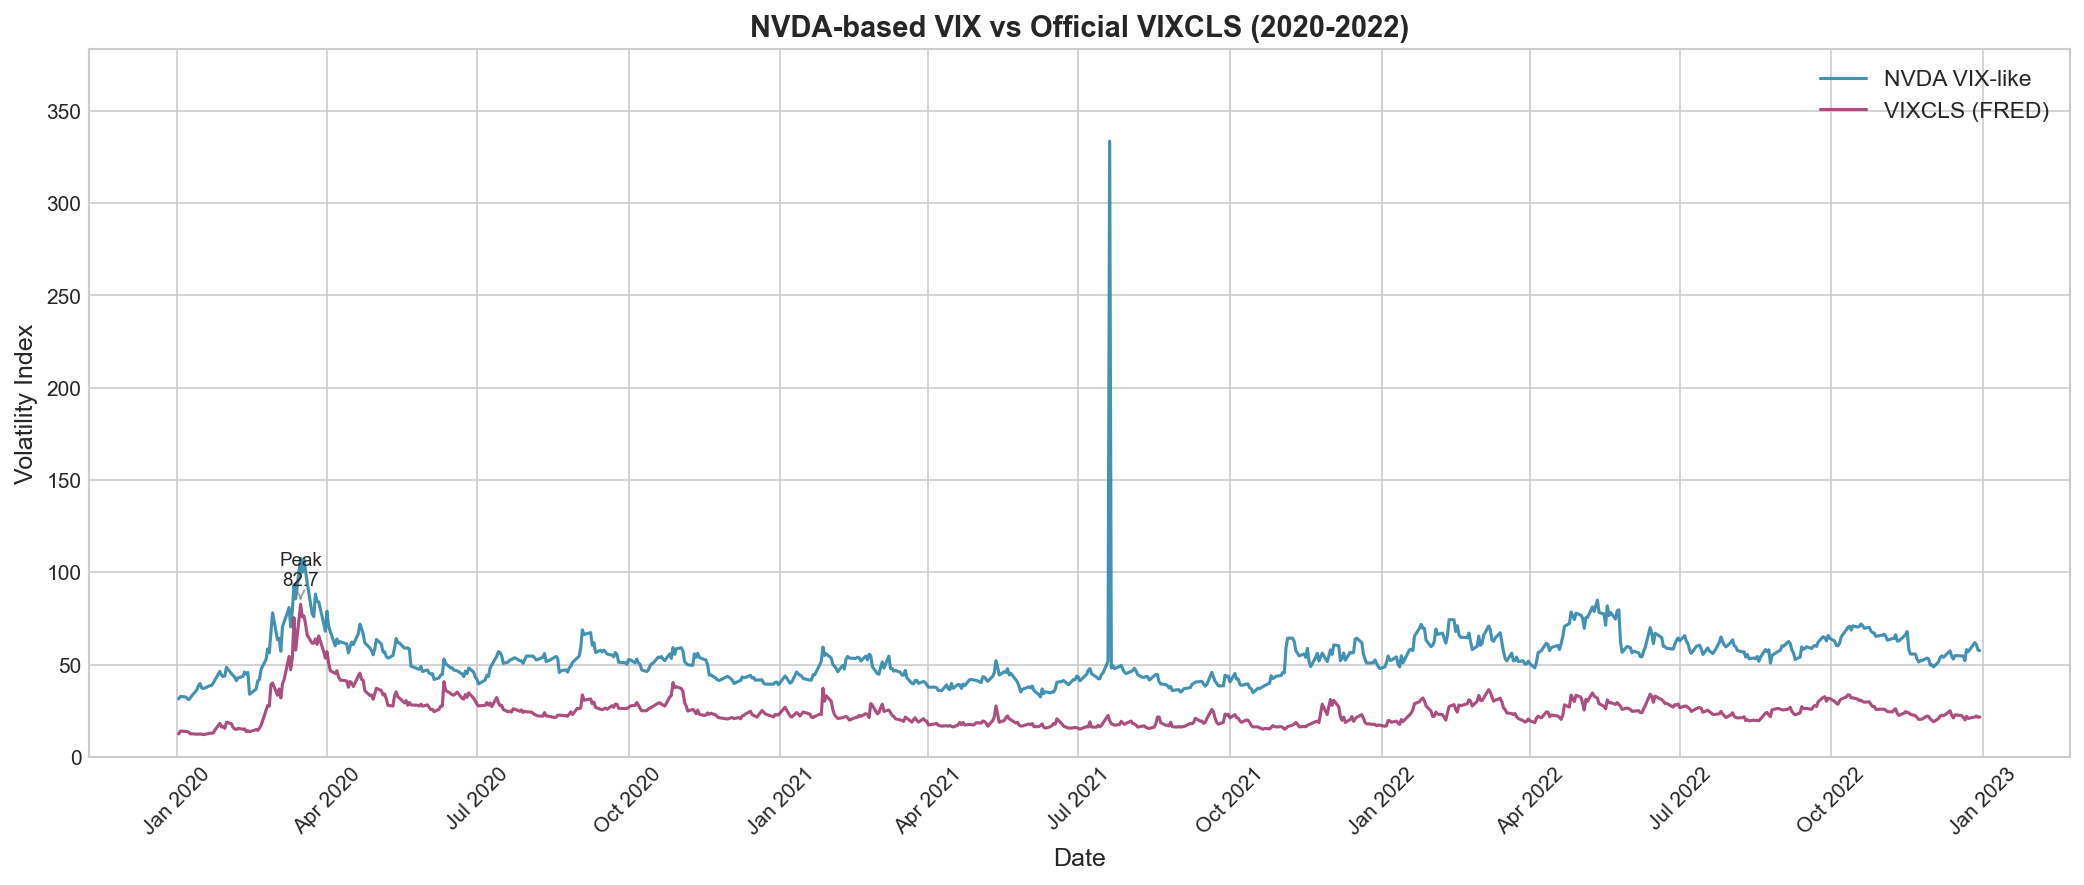
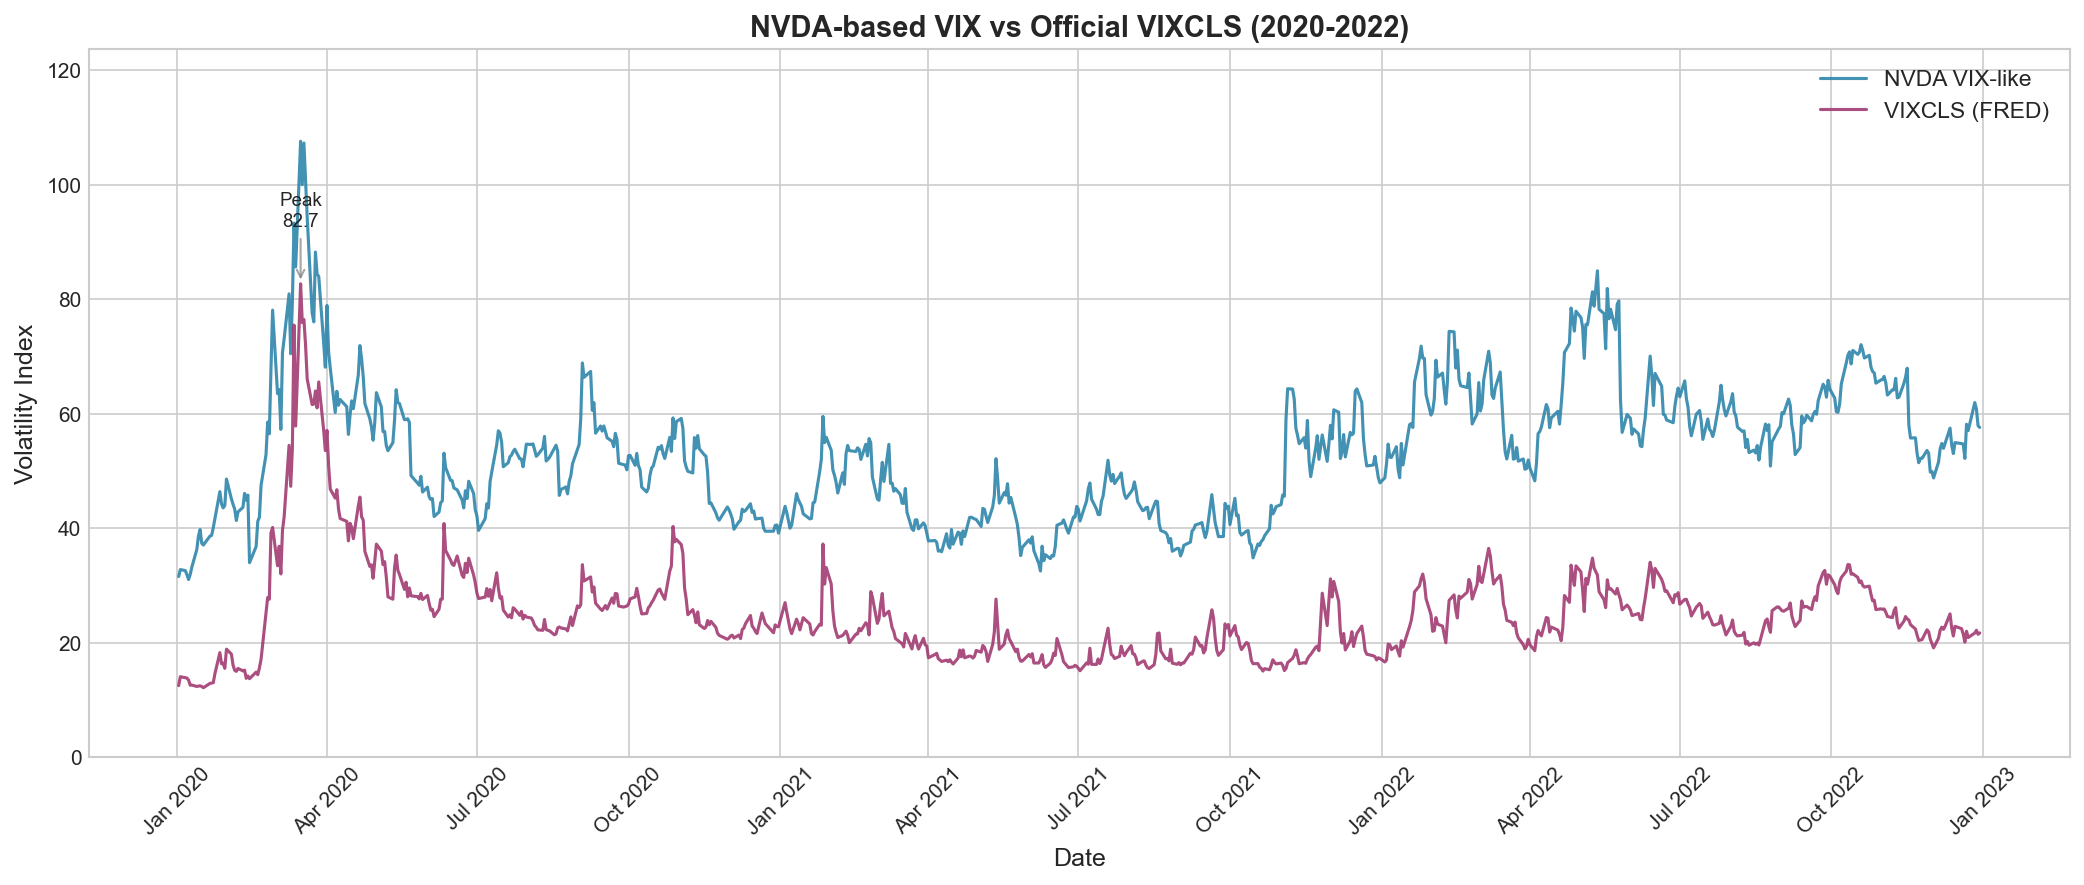
debug stock splits

diff --git a/src/vix_challenger/vix/strip.py b/src/vix_challenger/vix/strip.py
@@ -68,6 +68,13 @@ def build_otm_strip(
     # Sort by strike
     df = expiry_df.sort(Cols.STRIKE)
 
+    # Spot/underlying price (used for sanity filtering)
+    spot: Optional[float] = None
+    if Cols.UNDERLYING_PRICE in df.columns:
+        spot_series = df[Cols.UNDERLYING_PRICE].drop_nulls().drop_nans()
+        if len(spot_series) > 0:
+            spot = float(spot_series.head(1).item())
+
     # -------------------------------------------------------------------------
     # Strike sanity guard (single-stock chains can contain extreme deep-tail
     # strikes with spurious/non-sense quotes that dominate the 1/K^2 weighting).
@@ -79,22 +86,41 @@ def build_otm_strip(
     # For index-like underlyings (e.g. SPY), this filter usually has no effect
     # because strike ranges are already reasonable.
     # -------------------------------------------------------------------------
-    if Cols.UNDERLYING_PRICE in df.columns:
-        spot_series = df[Cols.UNDERLYING_PRICE].drop_nulls().drop_nans()
-        if len(spot_series) > 0:
-            spot = float(spot_series.head(1).item())
-            if spot > 0:
-                min_moneyness = 0.20
-                max_moneyness = 5.00
-                strike_min_guard = spot * min_moneyness
-                strike_max_guard = spot * max_moneyness
+    if spot is not None and spot > 0:
+        min_moneyness = 0.20
+        max_moneyness = 5.00
+        strike_min_guard = spot * min_moneyness
+        strike_max_guard = spot * max_moneyness
 
-                # Apply only if the chain includes extreme strikes (otherwise no-op)
-                if (df[Cols.STRIKE].min() < strike_min_guard) or (df[Cols.STRIKE].max() > strike_max_guard):
-                    df = df.filter(
-                        (pl.col(Cols.STRIKE) >= strike_min_guard)
-                        & (pl.col(Cols.STRIKE) <= strike_max_guard)
-                    )
+        # Apply only if the chain includes extreme strikes (otherwise no-op)
+        if (df[Cols.STRIKE].min() < strike_min_guard) or (df[Cols.STRIKE].max() > strike_max_guard):
+            df = df.filter(
+                (pl.col(Cols.STRIKE) >= strike_min_guard)
+                & (pl.col(Cols.STRIKE) <= strike_max_guard)
+            )
+
+        # Put-call parity sanity across strikes:
+        # For rows with both C and P mids, implied forward should be close to spot.
+        # This catches split/nonstandard-contract issues where strikes/quotes are
+        # on a different scale than the reported underlying price.
+        has_pair = (
+            pl.col(Cols.C_MID).is_not_null()
+            & pl.col(Cols.P_MID).is_not_null()
+            & pl.col(Cols.C_MID).is_not_nan()
+            & pl.col(Cols.P_MID).is_not_nan()
+            & (pl.col(Cols.C_MID) > 0)
+            & (pl.col(Cols.P_MID) > 0)
+        )
+        implied_forward = pl.col(Cols.STRIKE) + (pl.col(Cols.C_MID) - pl.col(Cols.P_MID))
+        df = df.filter(
+            (~has_pair)
+            | (
+                implied_forward.is_between(
+                    pl.lit(spot * 0.5),
+                    pl.lit(spot * 1.5),
+                )
+            )
+        )
     
     # Build OTM quote column:
     # - K < K0: use P_MID
@@ -117,6 +143,24 @@ def build_otm_strip(
         .alias("otm_bid"),
     )
     
+    # No-arbitrage bounds sanity filter for OTM quotes:
+    # - OTM call (K > K0): 0 <= C <= S
+    # - OTM put  (K < K0): 0 <= P <= K
+    #
+    # This catches corporate-action / split-related data issues where the strike
+    # scale and quoted premiums are inconsistent with the underlying price
+    # (e.g., OTM calls priced above spot).
+    if spot is not None and spot > 0:
+        eps = 1e-3  # allow tiny numerical/rounding noise
+        df = df.with_columns(
+            pl.when(pl.col(Cols.STRIKE) < k0)
+            .then(pl.col(Cols.STRIKE) * (1.0 + eps))      # put upper bound ~ K
+            .when(pl.col(Cols.STRIKE) > k0)
+            .then(pl.lit(spot) * (1.0 + eps))             # call upper bound ~ S
+            .otherwise(pl.lit(min(spot, k0)) * (1.0 + eps))
+            .alias("_otm_upper_bound")
+        ).filter(pl.col("otm_quote") <= pl.col("_otm_upper_bound"))
+
     # Filter out rows with null/nan OTM quotes
     df = df.filter(
         pl.col("otm_quote").is_not_null() &

diff --git a/src/vix_challenger/vix/methodology.md b/src/vix_challenger/vix/methodology.md
@@ -4,7 +4,13 @@ This document describes the Cboe VIX-style model-free variance calculation imple
 
 ## Overview
 
-The VIX index measures the market's expectation of 30-day volatility implied by S&P 500 (SPX) index option prices. Our implementation adapts this methodology to SPY (S&P 500 ETF) options.
+The VIX index measures the market's expectation of 30-day volatility implied by S&P 500 (SPX) index option prices. Our implementation adapts this methodology to **equity/ETF options** (SPY, AAPL, TSLA, NVDA) using end-of-day option chains.
+
+Because single-stock chains (and some Kaggle datasets) can contain **real-world data issues** that violate the assumptions of the VIX white paper, the implementation includes **robustness filters** and **explicit QC outputs** to prevent artificial spikes caused by:
+
+- Illiquid / placeholder quotes (e.g., **bid=0**, wide ask, midquote looks “valid”)
+- Broken strike ladders (missing strikes near spot/forward)
+- Corporate actions / nonstandard contracts (e.g., **stock split day** where strike/quote scale mismatches underlying price)
 
 ## References
 
@@ -30,6 +36,8 @@ For each expiration, compute the forward price using put-call parity:
    K* = argmin |C_mid(K) - P_mid(K)|
    ```
 
+   **Robustness note (important for equities):** in practice, we do *not* search over all strikes blindly. Some chains contain extreme tail strikes (e.g., 1–10 when spot is in the hundreds) with bid=0 and wide asks; these can artificially minimize \(|C-P|\) and produce absurd forwards. We therefore apply a **moneyness-restricted search** around spot first (with fallbacks).
+
 2. Compute the forward price:
 
    ```
@@ -45,6 +53,8 @@ For each expiration, compute the forward price using put-call parity:
    ```
    K0 = max{K : K ≤ F}
    ```
+
+   **Robustness note:** `K0` is computed against the **full strike set** for the expiry (not only the parity-candidate subset). We also enforce **sanity checks** downstream to ensure `K0` is close to spot and close to `F` (see “Implementation Notes” and “Diagnostics”).
 
 ## Step 3: Build OTM Strip
 
@@ -64,6 +74,26 @@ Apply the "two consecutive zero-bid" cutoff on each wing:
 - **Call wing**: Starting from K0 and moving to higher strikes, exclude all strikes above (and including) the first pair of consecutive strikes with zero bid.
 
 This prevents deep OTM options with no liquidity from distorting the variance calculation.
+
+### Additional Robustness Filters (Single-Stock Chains)
+
+The official VIX methodology assumes a clean strike ladder and quotes consistent with no-arbitrage bounds. With single-stock EOD chains, we observed several pathologies that can create **artificial variance spikes** via the \(\Delta K / K^2\) weighting. We apply the following filters before building the final OTM strip:
+
+1. **Strike moneyness guard (tail strike suppression)**
+   - Keep strikes within a broad envelope around spot: \([0.20\times S,\; 5.00\times S]\)
+   - This prevents extreme tiny strikes (e.g., \(K=7\)) from dominating the variance integral.
+
+2. **No-arbitrage bounds on OTM midquotes**
+   - For OTM calls (\(K > K_0\)): enforce \(0 \le C_{mid} \le S\)
+   - For OTM puts (\(K < K_0\)): enforce \(0 \le P_{mid} \le K\)
+
+3. **Implied-forward consistency filter (split/nonstandard contract detection)**
+   - For rows with both call+put mids, compute implied forward:
+     \[
+     F_i = K + (C_{mid}(K) - P_{mid}(K))
+     \]
+   - Keep strikes where \(F_i \in [0.5\times S,\; 1.5\times S]\).
+   - This reliably catches corporate-action scale issues (e.g., on a split day, some strikes/quotes may be on a pre-split scale while the reported spot is post-split).
 
 ## Step 4: Compute Strike Spacing
 
@@ -99,6 +129,13 @@ Where:
 2. **Adjustment term**: `(1/T) × (F/K0 - 1)²`
    - Corrects for the discrete nature of strikes
    - Small when K0 is close to F
+
+### Variance Validity Checks (Practical)
+
+In theory, the model-free variance should be non-negative. In practice, **negative variance** usually indicates a broken chain (strike ladder gaps, scale mismatch, or bad quotes). We therefore:
+
+- **Reject** expiries where `K0` is far from spot (outside \([0.5S, 1.5S]\)) or where \(|F/K_0 - 1|\) is too large (broken ladder symptom).
+- **Do not** take `abs(variance)` when variance is negative. Large negative variance is treated as a **skip** for that day/expiry (otherwise it can create large artificial spikes after interpolation).
 
 ## Step 6: 30-Day Interpolation
 
@@ -141,4 +178,23 @@ Key sanity checks for each computation:
 2. **Implied vol in [5%, 150%]**: Typical range for equity volatility
 3. **K0 close to F**: Should differ by < 2%
 4. **Strikes on both wings**: Should have both OTM puts and calls
+
+### Explicit QC Outputs
+
+For each ticker, we write a per-day diagnostics parquet:
+
+- `data/processed/{ticker}_diagnostics.parquet`
+
+This includes day-level quote/spread/coverage stats *plus* expiry-level QC fields to debug spikes and skips:
+
+- **Strike ladder / gaps**: `*_spot_gap_pct_underlying`, `*_max_strike_gap_pct_underlying`, `*_forward_gap_pct_underlying`
+- **Parity sanity**: `*_parity_forward`, `*_parity_k0`, `*_parity_f_over_k0`, `*_parity_diff`
+- **Tail strike flags**: `*_strike_guard_applied`, `*_n_strikes_below_20pct_spot`, `*_n_strikes_above_5x_spot`
+- **Dominance checks (from the OTM strip integral)**: `*_top_contrib_frac`, `*_min_strike_contrib_frac`
+
+These QC fields were essential for diagnosing:
+
+- TSLA spikes driven by tiny strikes with bid=0 / wide asks (parity + \(\frac{1}{K^2}\) dominance)
+- TSLA days with broken strike ladders (e.g., \(K_0\) collapsing far below spot)
+- NVDA split-day scale mismatch (OTM calls priced above spot and implied-forward inconsistencies)
 

diff --git a/reports/multi_ticker_summary.md b/reports/multi_ticker_summary.md
@@ -22,7 +22,7 @@ This report summarizes the computation of VIX-like (model-free implied volatilit
 | SPY | 24.41 | 8.56 | 11.71 | 81.11 | 2020-2022 |
 | AAPL | 28.90 | 10.42 | 14.21 | 99.98 | 2016-2020 |
 | TSLA | 70.59 | 19.34 | 35.57 | 188.11 | 2019-2022 |
-| NVDA | 53.67 | 15.41 | 31.01 | 333.54 | 2020-2022 |
+| NVDA | 53.29 | 11.57 | 31.01 | 107.60 | 2020-2022 |
 
 *TSLA extreme spikes were traced to broken strike ladders / tail-strike dominance and are now handled via explicit QC and stricter validity checks.*
 
